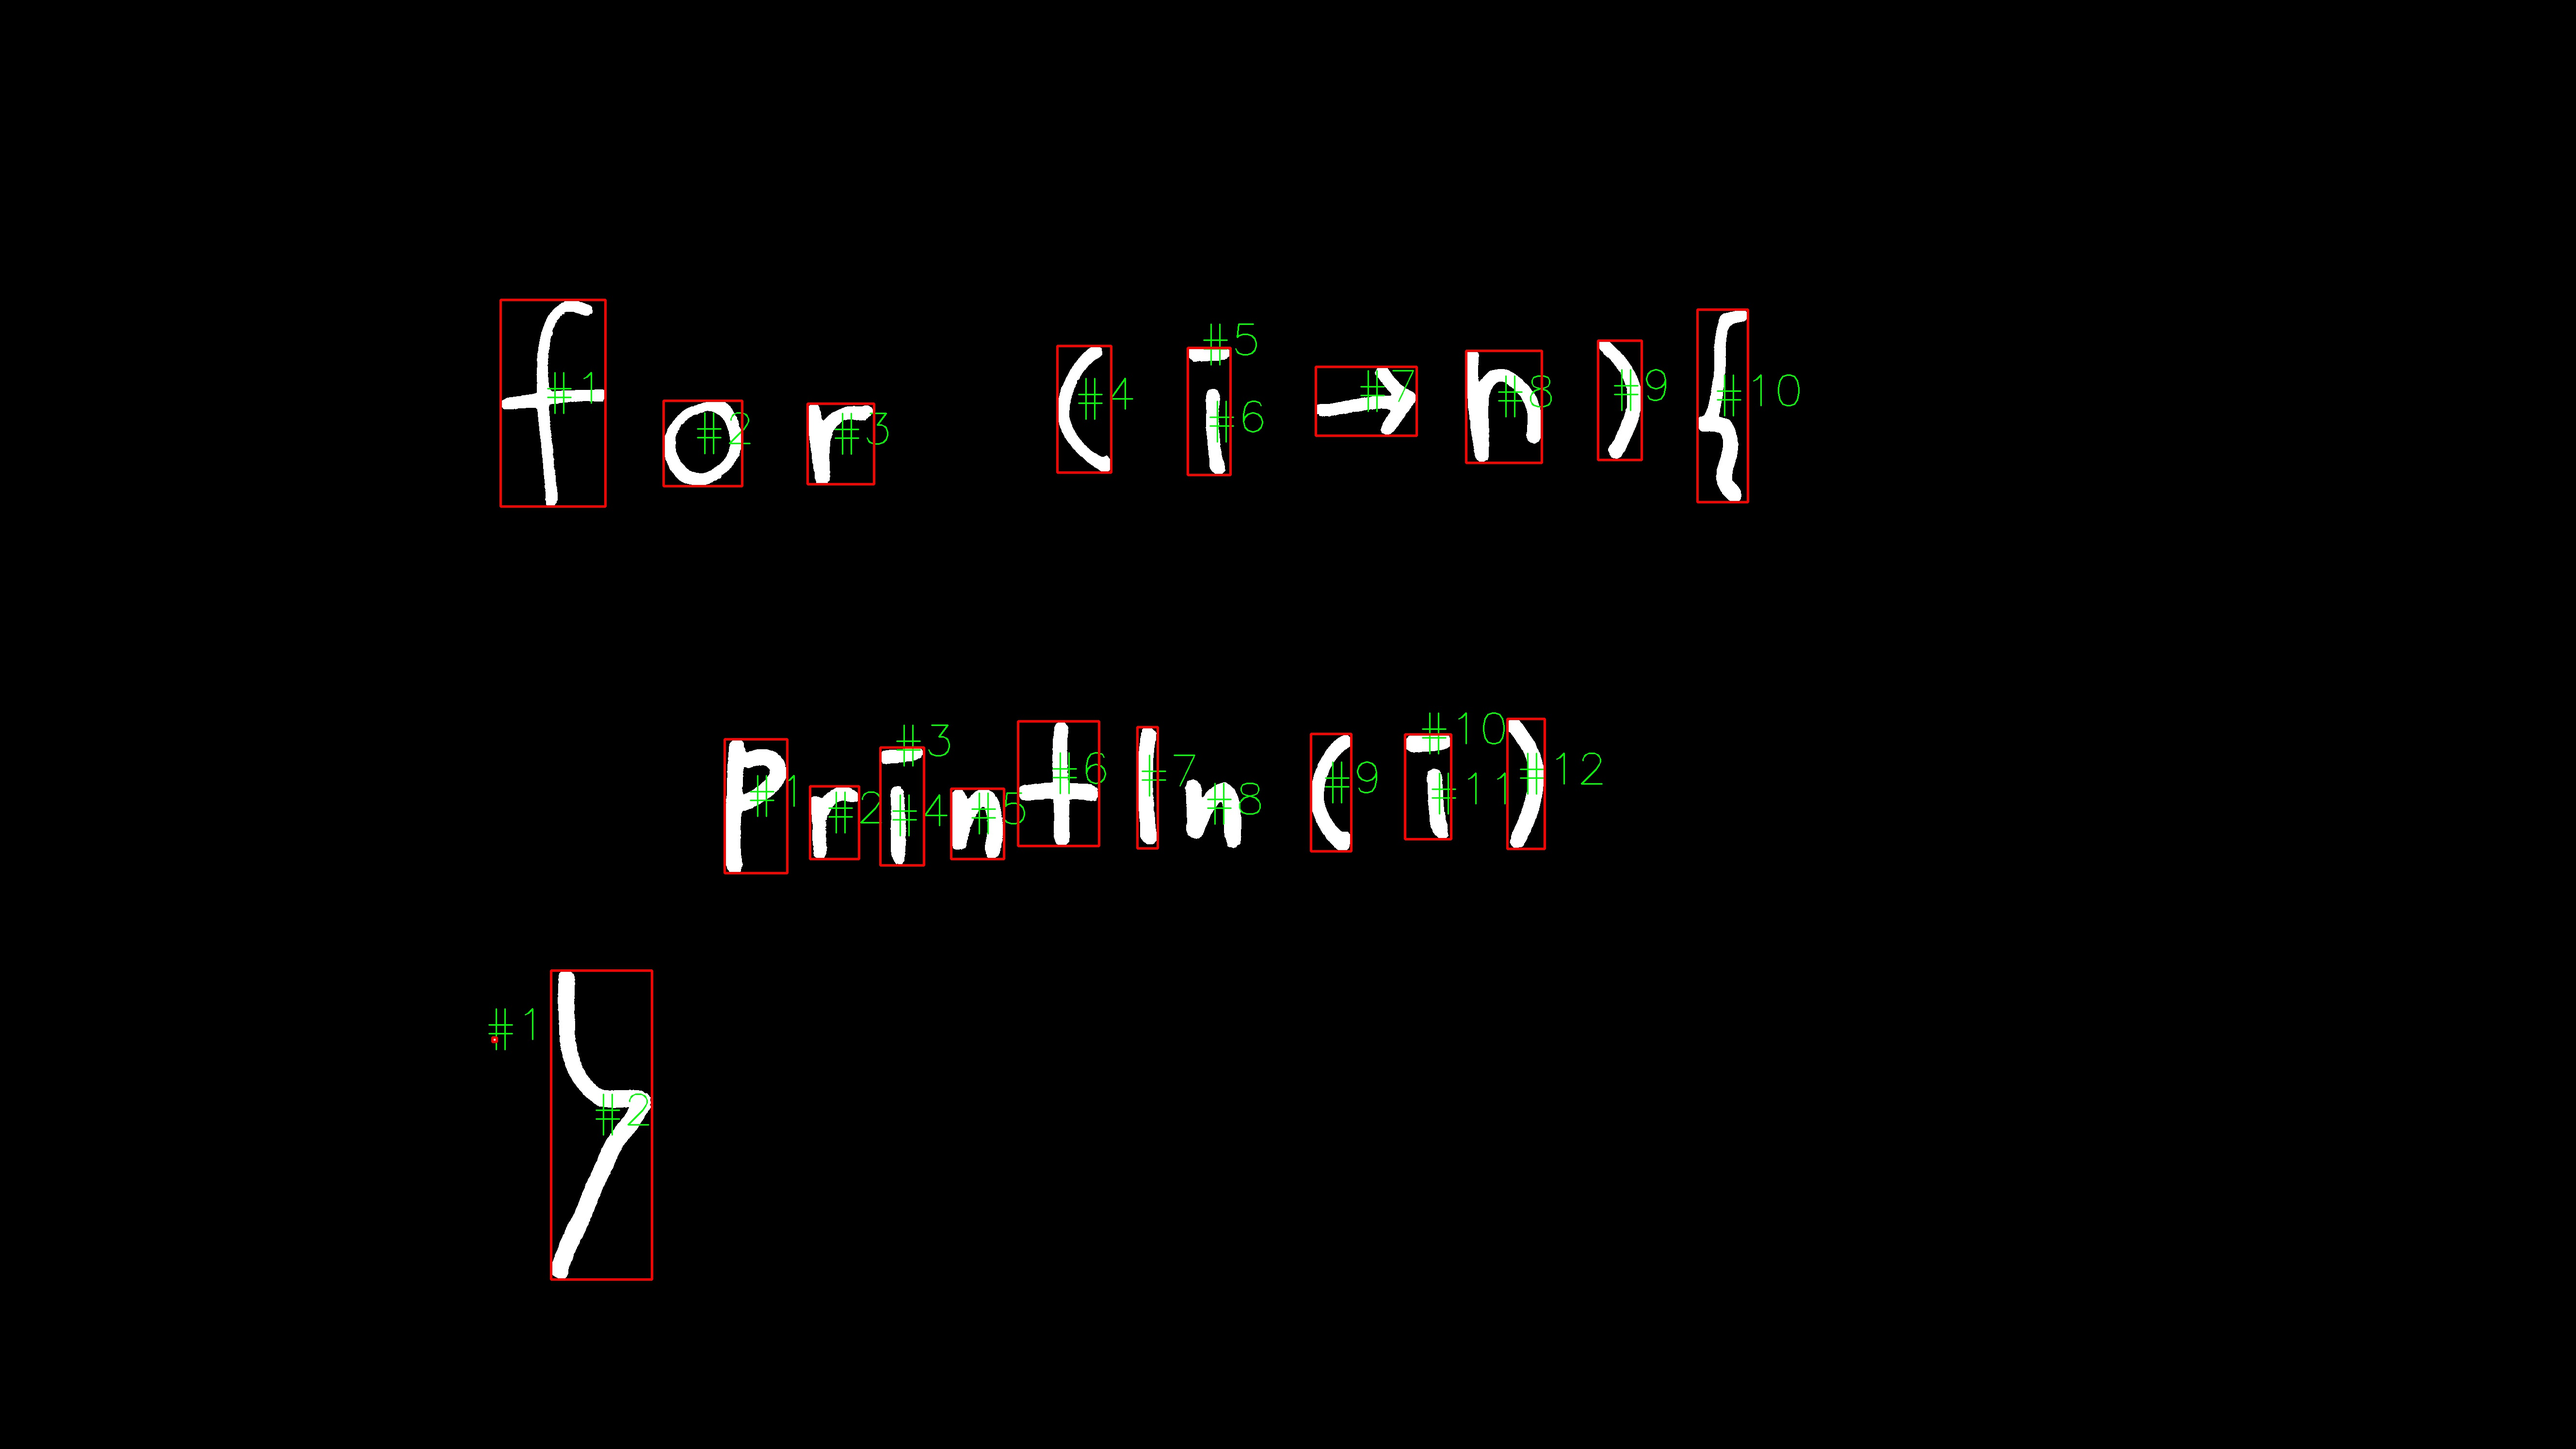
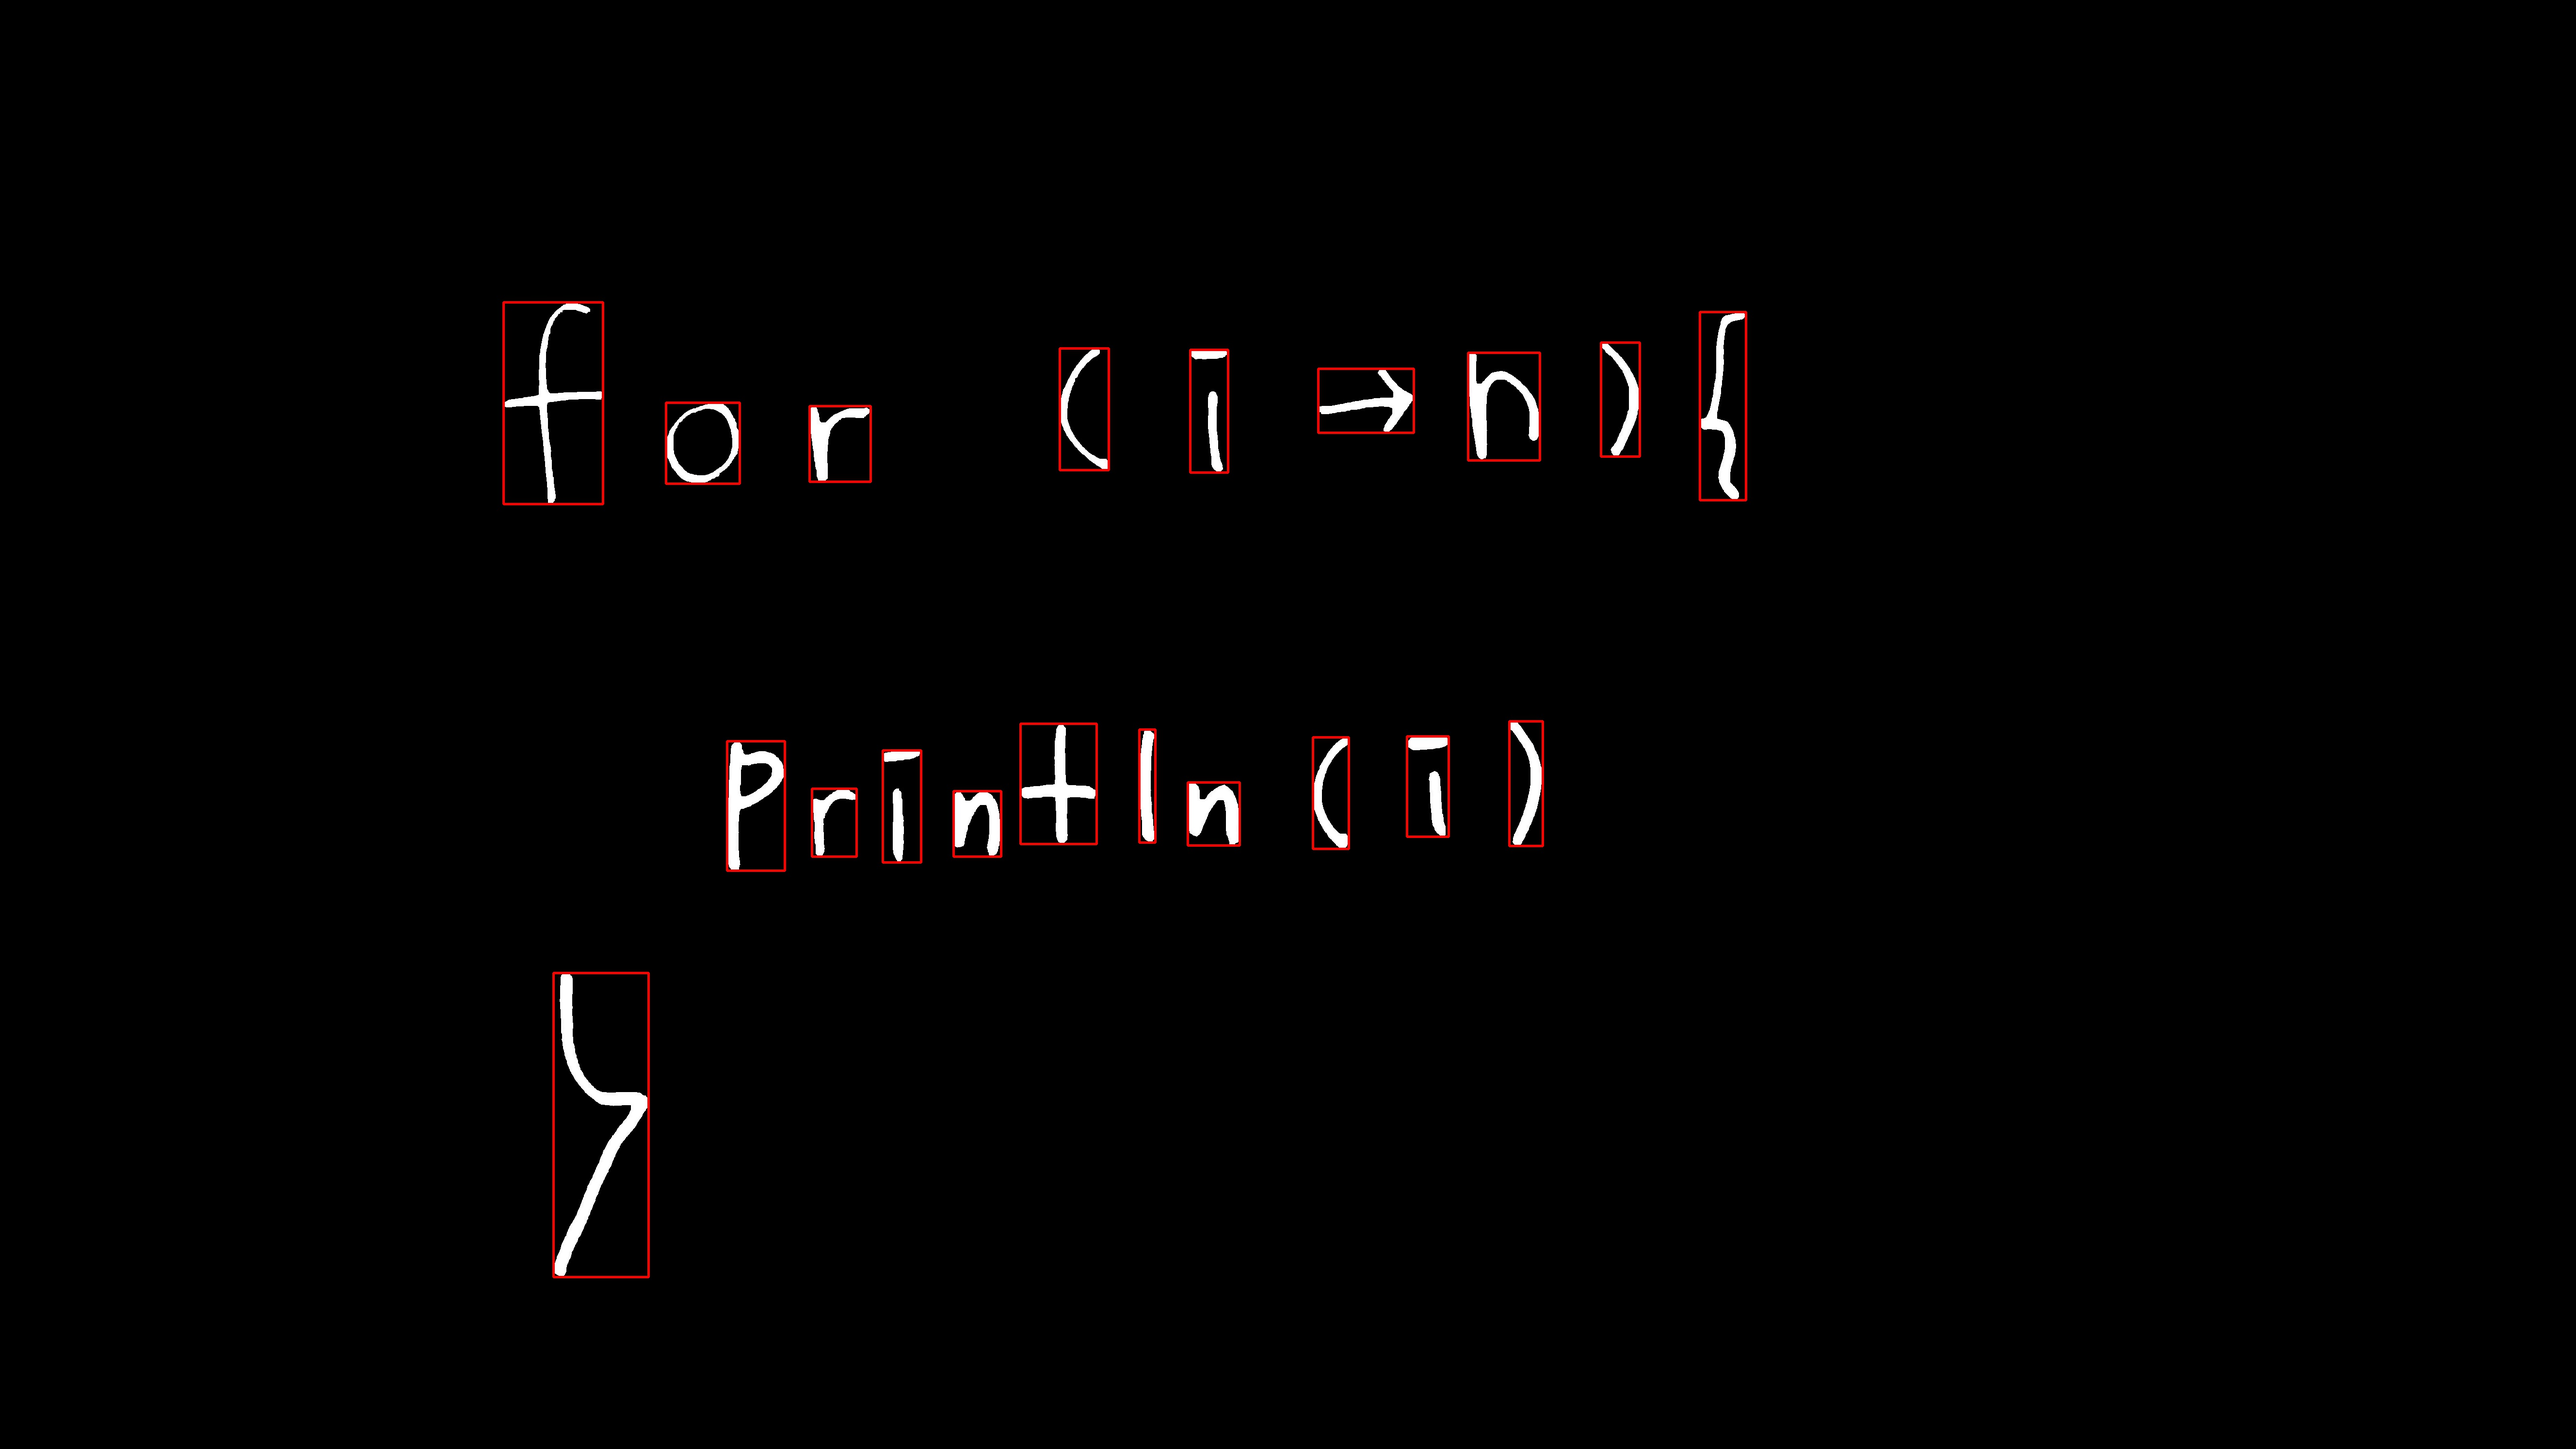
IP_7 tesseract testing

diff --git a/src/imageProcessing/src/contour.py b/src/imageProcessing/src/contour.py
@@ -60,10 +60,11 @@ def convex():
         for i in range(len(k)):
             for j in range(len(k[i])):
                 k[i].sort(key=lambda x :x.getX())
-                cv2.putText(img, "#{}".format(j + 1), (k[i][j].getX() + int(0.5 * k[i][j].getW()) - 20, k[i][j].getY() + int(0.5 * k[i][j].getH())),
-                            cv2.FONT_HERSHEY_SIMPLEX,
-                            3.0, (0, 255, 0), 2)
+               # cv2.putText(img, "#{}".format(j + 1), (k[i][j].getX() + int(0.5 * k[i][j].getW()) - 20, k[i][j].getY() + int(0.5 * k[i][j].getH())),
+                #            cv2.FONT_HERSHEY_SIMPLEX,
+                #            3.0, (0, 255, 0), 2)
 
+        number = 10
         for i in range(len(k)):
             for j in k[i]:
                 heightCheck = j.getCenterY()
@@ -76,6 +77,10 @@ def convex():
                             tmpH = j.getH() + j.getY() - p.getY()
                             p.setData(p.getX(),p.getY(),tmpW,tmpH)
                             j.setData(p.getX(),p.getY(),tmpW,tmpH)
+
+            cv2.imwrite('../src/'+str(number) + '.jpg',img[k[i][0].getY() : k[i][len(k[i])-1].getY() + k[i][len(k[i])-1].getH(),
+                                                        k[i][0].getX(): k[i][len(k[i]) - 1].getX() + k[i][len(k[i]) - 1].getW()])
+            number += 1
                             #cv2.rectangle(img, (targetX, targetY), (targetX +p.getW(), j.getY() + j.getH()
                              #                                        ), (0, 0, 255), 3)
         for i in range(len(k)):
